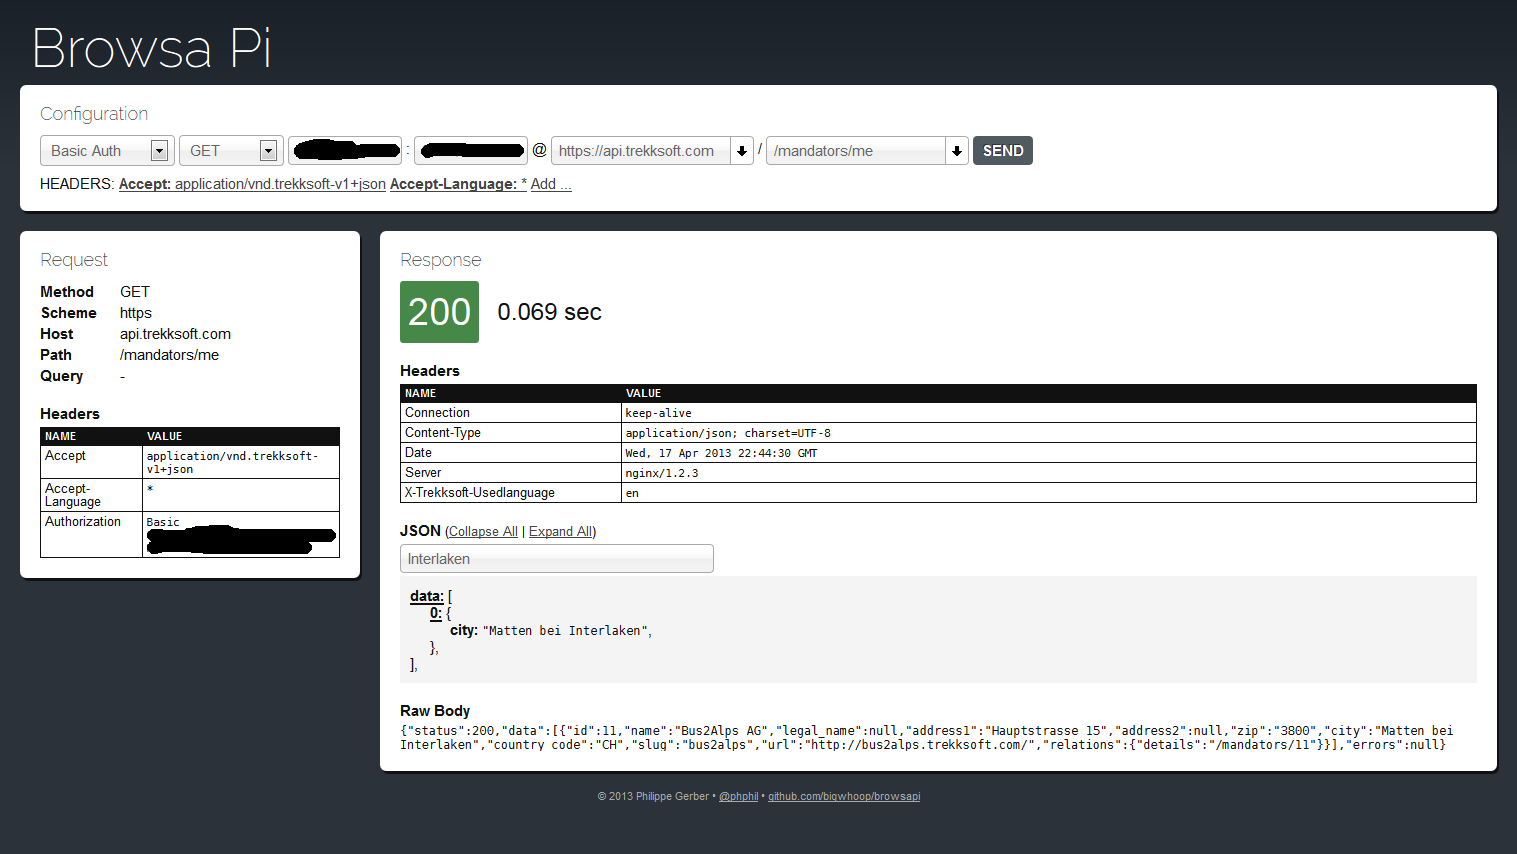
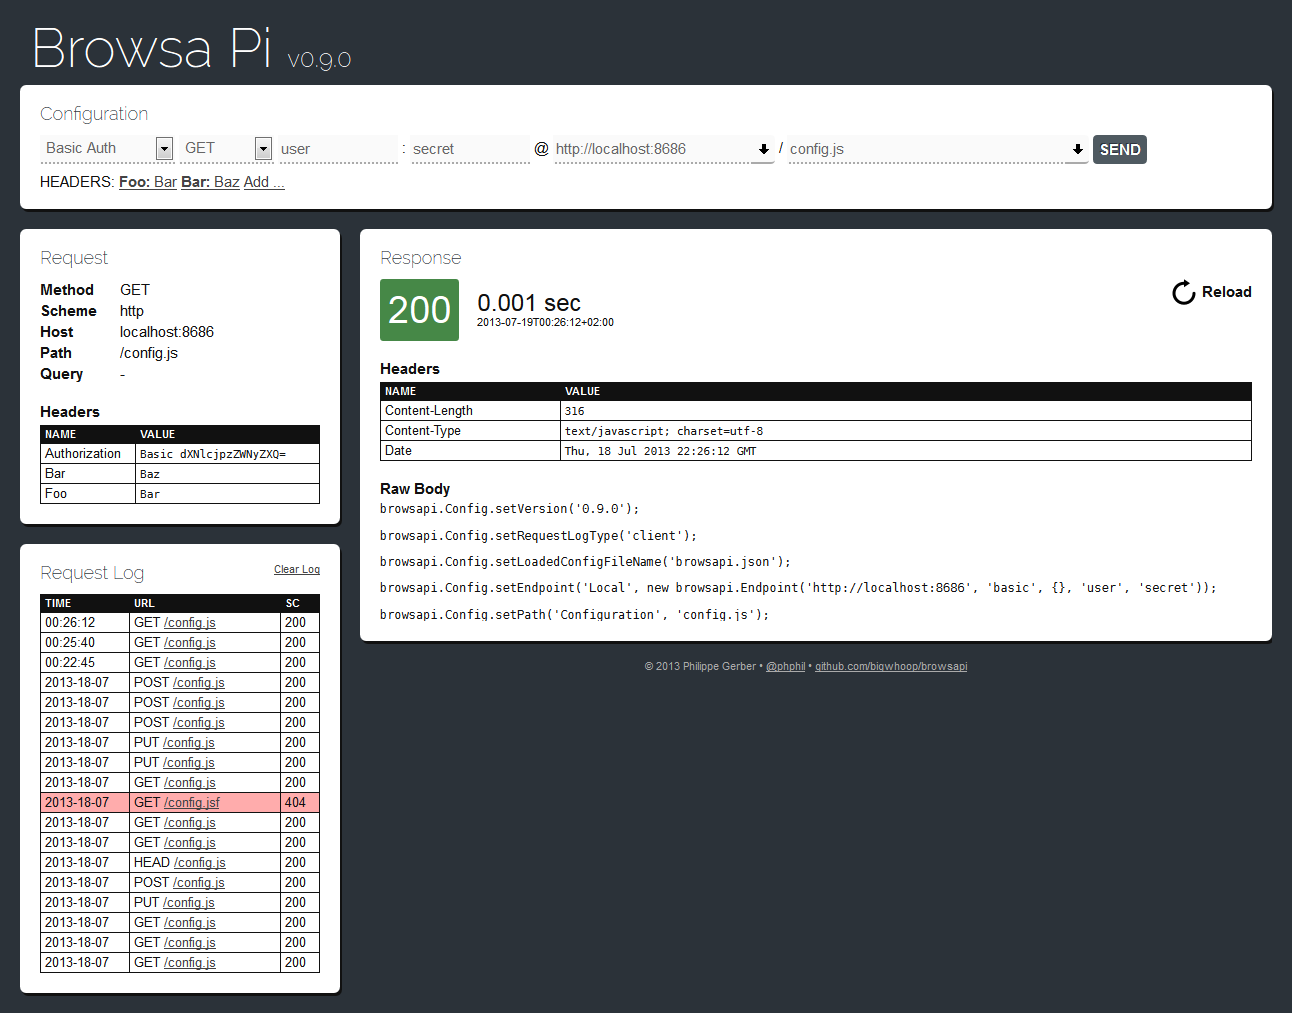
fixed quick selectors

diff --git a/www/styles.css b/www/styles.css
@@ -1,3 +1,6 @@
+/* reset */
+html,body,div,span,applet,object,iframe,h1,h2,h3,h4,h5,h6,p,blockquote,pre,a,abbr,acronym,address,big,cite,code,del,dfn,em,img,ins,kbd,q,s,samp,small,strike,strong,sub,sup,tt,var,b,u,i,center,dl,dt,dd,ol,ul,fieldset,form,label,legend,table,caption,tbody,tfoot,thead,tr,th,td,article,aside,canvas,details,embed,figure,figcaption,footer,header,hgroup,menu,nav,output,ruby,section,summary,time,mark,audio,video{border:0;font-size:100%;font:inherit;vertical-align:baseline;margin:0;padding:0}article,aside,details,figcaption,figure,footer,header,hgroup,menu,nav,section{display:block}body{line-height:1}ol,ul{list-style:none}blockquote,q{quotes:none}blockquote:before,blockquote:after,q:before,q:after{content:none}table{border-collapse:collapse;border-spacing:0}
+
 body, input, textarea, select, button {
     font-family : Arial, sans-serif;
     color       : #111;
@@ -154,18 +157,17 @@ input.has-selector {
 }
 
 .selector {
-    display        : inline-block;
-    box-sizing     : border-box;
-    vertical-align : middle;
-    background     : #fff url('/arrow-down.png') no-repeat center;
-    border         : 1px solid #aaa;
-    padding        : 0 2px;
-    width          : 18px;
-    height         : 27px;
-    cursor         : pointer;
-    border-radius  : 4px;
-    border-top-left-radius    : 0;
-    border-bottom-left-radius : 0;
+    cursor             : pointer;
+    display            : inline-block;
+    vertical-align     : middle;
+    background         : #fafafa url('/arrow-down.png') no-repeat center;
+    border-bottom      : 2px solid #aaa;
+    width              : 22px;
+    height             : 29px;
+    box-sizing         : border-box;
+    -moz-box-sizing    : border-box;
+    -webkit-box-sizing : border-box;
+    border-radius      : 0 4px 4px 0;
 }
 
 .selector:hover {

diff --git a/www/src/browsapi.js b/www/src/browsapi.js
@@ -6,7 +6,7 @@ var browsapi = {
         endpoints      : {},
         paths          : {},
         timeFormat     : 'HH:mm:ss',
-        dateFormat     : 'MMMM Do YYYY',
+        dateFormat     : 'YYYY-DD-MM',
 
         /**
          * @param {String} version

diff --git a/main.go b/main.go
@@ -27,13 +27,12 @@ func main() {
 	flag.Parse()
 
 	configPath = flag.Arg(0)
+	if len(configPath) == 0 {
+		configPath = DefaultConfigFile
+	}
 
 	// If --init is passed, we create a new config file at the path specified by configPath
 	if *init {
-		if len(configPath) == 0 {
-			configPath = DefaultConfigFile
-		}
-
 		if err := config.CreateFile(configPath); err != nil {
 			fmt.Printf("Failed to create config file.\nError: %s\n", err.Error())
 			os.Exit(1)
